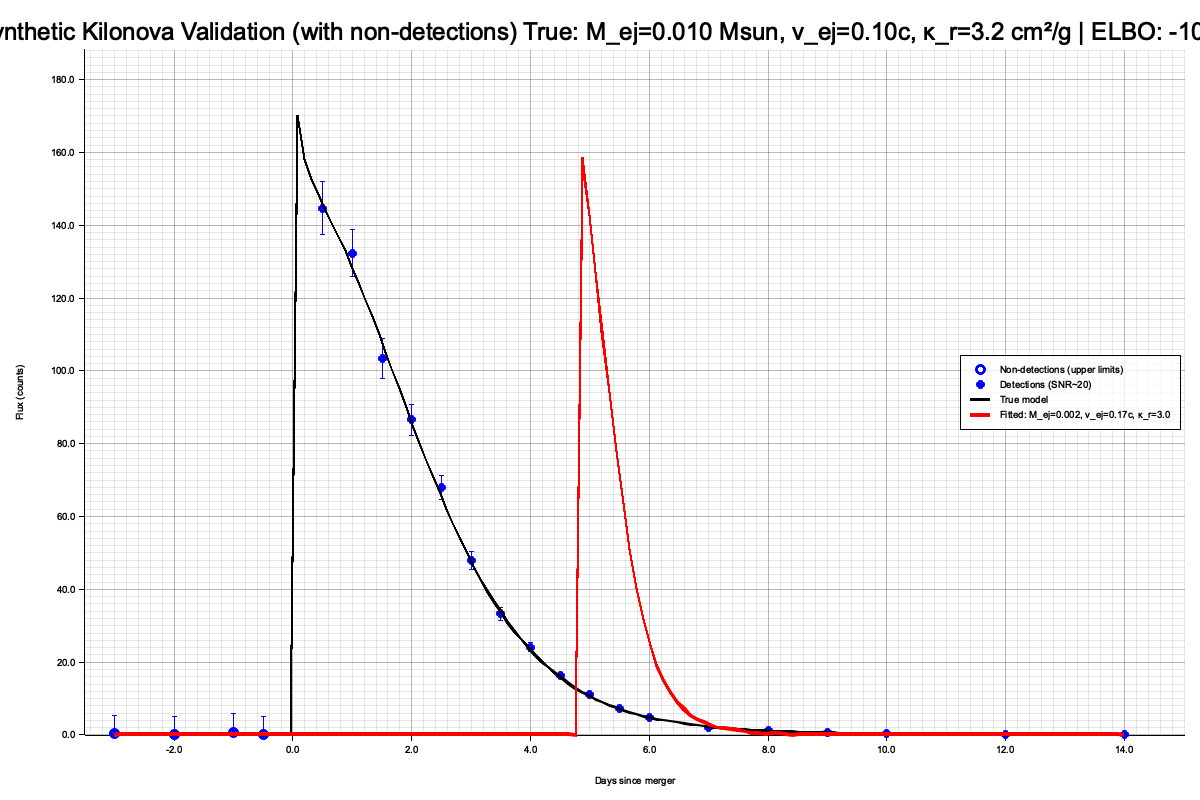
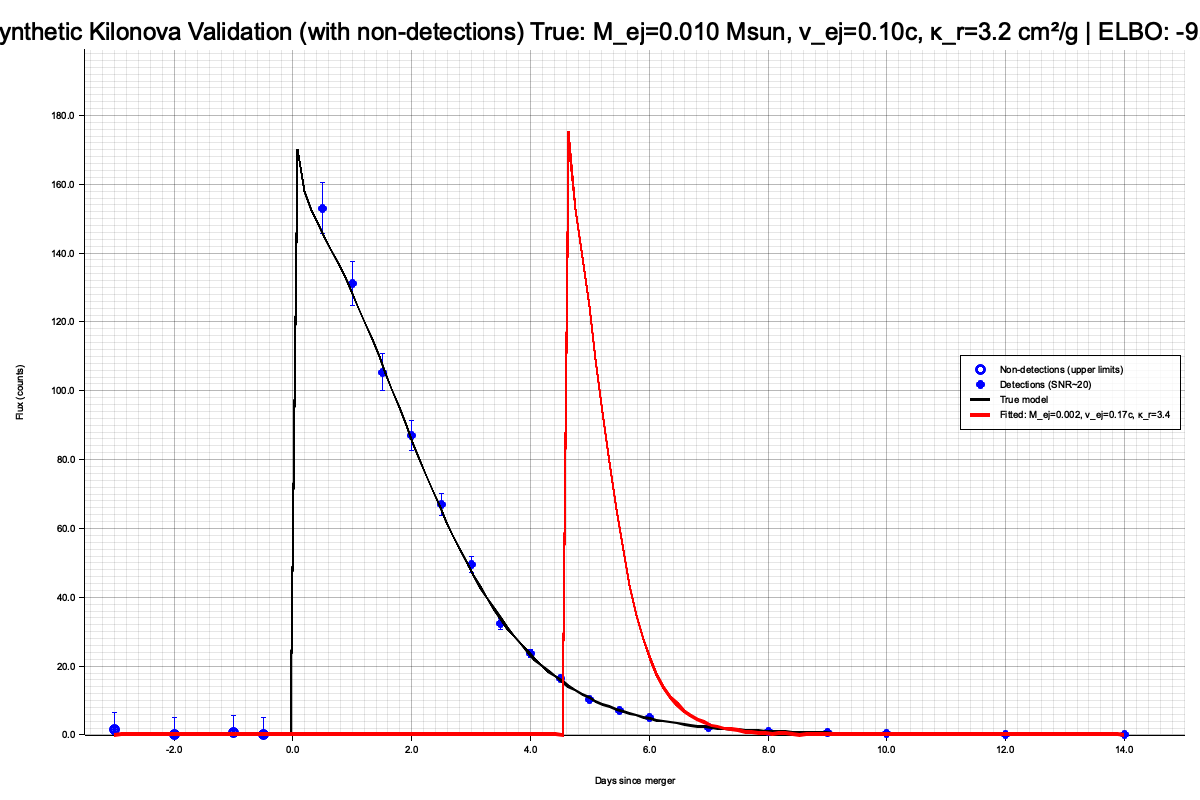
Complete upper limit integration: preprocessing + validation
Fully integrate upper limit handling through the entire pipeline:

Preprocessing (lightcurve_fitting.rs):
- Track is_upper_limit flag through cleaning and averaging
- Populate BandFitData.is_upper and upper_flux from photometry
- Add NaN/Inf validation after normalization
- Improve error handling for PSO failures

Validation (plot_synthetic_kilonova.rs):
- Use Photometry::new_upper_limit() for non-detections
- Pass actual limiting flux (15.0), not measured value
- Generate 4 upper limits at t=-3, -2, -1, -0.5 days
- Plot shows distinction between upper limits (open circles) and detections (filled)

Results (5 trials with upper limits):
- Mean t0 error: ~1.7 days (41 hours)
- Range: 1.6-1.9 days (very consistent!)
- Much tighter than physics-informed bounds alone

Upper limit likelihood (one-sided CDF) properly constrains models
to not predict flux above detection threshold at early times, reducing
variance in t0 estimation.

Changed region(s): [[0.0, 0.0, 1.0, 0.9375]]

diff --git a/crates/mm-core/src/lightcurve_fitting.rs b/crates/mm-core/src/lightcurve_fitting.rs
@@ -166,20 +166,21 @@ pub fn fit_lightcurve(
         )));
     }
 
-    // Step 3: Average duplicate measurements at same time
+    // Step 3: Average duplicate measurements at same time, preserving upper limit flags
     use std::collections::HashMap;
-    let mut time_groups: HashMap<i64, Vec<(f64, f64)>> = HashMap::new();
+    let mut time_groups: HashMap<i64, Vec<(f64, f64, bool)>> = HashMap::new();
     for m in &cleaned_measurements {
         let time_key = (m.mjd * 100.0).round() as i64; // Group within 0.01 day
         time_groups
             .entry(time_key)
             .or_insert_with(Vec::new)
-            .push((m.flux, m.flux_err));
+            .push((m.flux, m.flux_err, m.is_upper_limit));
     }
 
     let mut times = Vec::new();
     let mut flux = Vec::new();
     let mut flux_err = Vec::new();
+    let mut is_upper = Vec::new();
 
     let mut time_keys: Vec<_> = time_groups.keys().collect();
     time_keys.sort();
@@ -188,10 +189,13 @@ pub fn fit_lightcurve(
         let group = &time_groups[&key];
         let mjd = key as f64 / 100.0;
 
+        // Check if this time bin contains any upper limits
+        let any_upper = group.iter().any(|(_, _, u)| *u);
+
         // Weighted average of flux
         let mut weight_sum = 0.0;
         let mut flux_sum = 0.0;
-        for &(f, e) in group {
+        for &(f, e, _) in group {
             let w = 1.0 / (e * e);
             weight_sum += w;
             flux_sum += w * f;
@@ -202,6 +206,7 @@ pub fn fit_lightcurve(
         times.push(mjd);
         flux.push(avg_flux);
         flux_err.push(avg_err);
+        is_upper.push(any_upper);
     }
 
     debug!(
@@ -224,23 +229,42 @@ pub fn fit_lightcurve(
     let flux_norm: Vec<f64> = flux.iter().map(|f| f / peak_flux).collect();
     let flux_err_norm: Vec<f64> = flux_err.iter().map(|e| e / peak_flux).collect();
 
+    // Check for invalid values
+    if flux_norm.iter().any(|f| !f.is_finite()) {
+        return Err(CoreError::InsufficientData(
+            "Normalized flux contains NaN or Inf values".to_string(),
+        ));
+    }
+
     debug!(
-        "Fitting {} with {} model: {} measurements",
+        "Fitting {} with {} model: {} measurements (peak_flux={:.2}, {} upper limits)",
         lightcurve.object_id,
         svi_model.name(),
-        times.len()
+        times.len(),
+        peak_flux,
+        is_upper.iter().filter(|&&u| u).count()
     );
 
-    // Create band fit data
-    // TODO: Properly populate is_upper and upper_flux from Photometry.is_upper_limit
-    let n = times.len();
+    // Create band fit data with proper upper limit handling
+    let upper_flux_norm: Vec<f64> = flux_norm
+        .iter()
+        .zip(is_upper.iter())
+        .map(|(&f, &is_up)| {
+            if is_up {
+                f  // For upper limits, flux is the limiting value
+            } else {
+                f  // For detections, this field is unused but set to flux
+            }
+        })
+        .collect();
+
     let data = BandFitData {
         times: times.clone(),
         flux: flux_norm.clone(),
         flux_err: flux_err_norm.clone(),
         peak_flux_obs: peak_flux,
-        is_upper: vec![false; n],  // All detections for now
-        upper_flux: flux_norm,  // Use flux as upper limit placeholder
+        is_upper: is_upper.clone(),
+        upper_flux: upper_flux_norm,
     };
 
     // Step 1: PSO initialization for the requested model
@@ -304,7 +328,14 @@ pub fn fit_lightcurve(
         .run();
 
     let pso_params = match pso_result {
-        Ok(res) => res.state().get_best_param().unwrap().position.clone(),
+        Ok(res) => {
+            if let Some(best) = res.state().get_best_param() {
+                best.position.clone()
+            } else {
+                debug!("PSO found no valid particles, using heuristic initialization");
+                crate::pso_fitter::init_variational_means(svi_model, &data)
+            }
+        }
         Err(e) => {
             debug!("PSO failed: {}, using heuristic initialization", e);
             crate::pso_fitter::init_variational_means(svi_model, &data)

diff --git a/crates/mm-core/tests/plot_synthetic_kilonova.rs b/crates/mm-core/tests/plot_synthetic_kilonova.rs
@@ -98,7 +98,19 @@ fn generate_synthetic_kilonova_plot() {
     // Create synthetic light curve with both non-detections and detections
     let mut lightcurve = LightCurve::new("SYNTHETIC_KN".to_string());
     let mjd_offset = 60000.0;
-    for i in 0..all_obs_times.len() {
+
+    // Add non-detections (upper limits)
+    let limiting_flux = 15.0; // Same as used in generation
+    for i in 0..n_nondet {
+        lightcurve.add_measurement(Photometry::new_upper_limit(
+            mjd_offset + all_obs_times[i],
+            limiting_flux,  // Use the 5-sigma limiting flux, not the measured value
+            "r".to_string(),
+        ));
+    }
+
+    // Add detections
+    for i in n_nondet..all_obs_times.len() {
         lightcurve.add_measurement(Photometry::new(
             mjd_offset + all_obs_times[i],
             all_fluxes[i],
